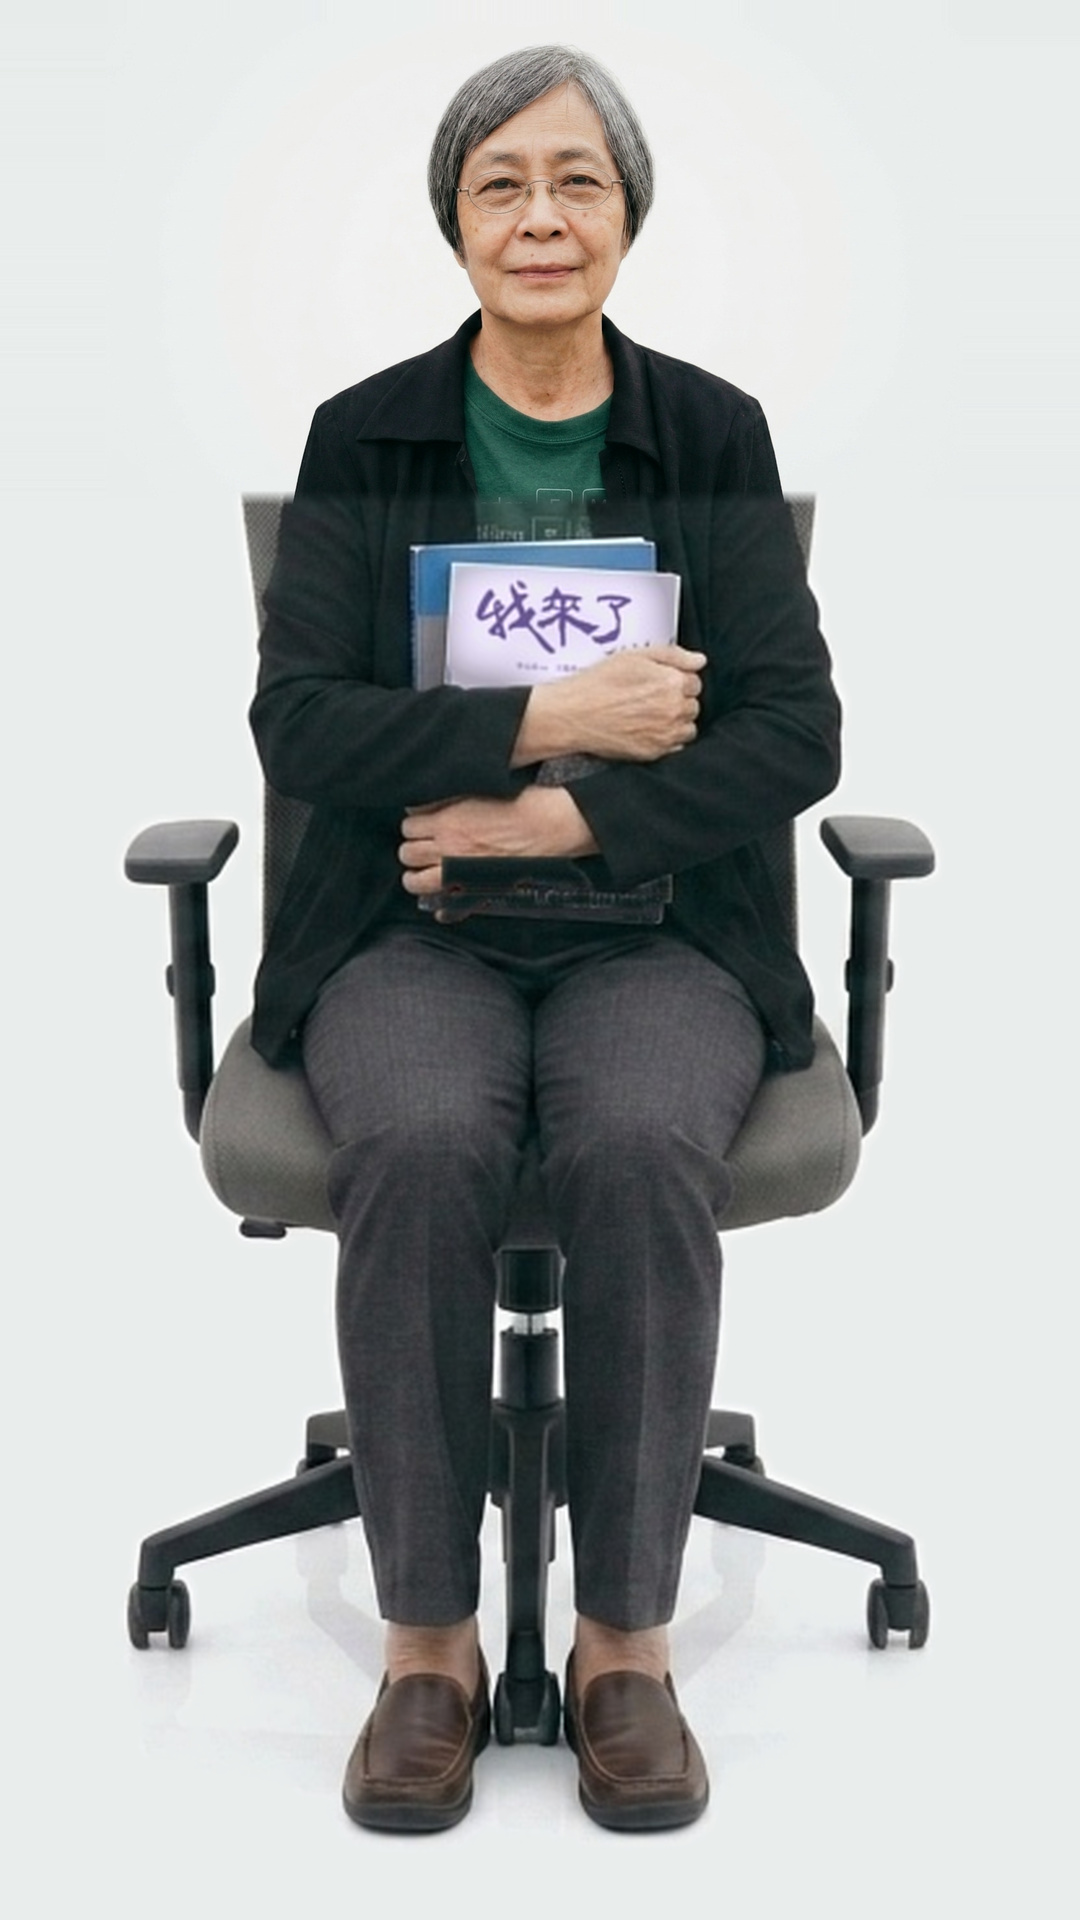
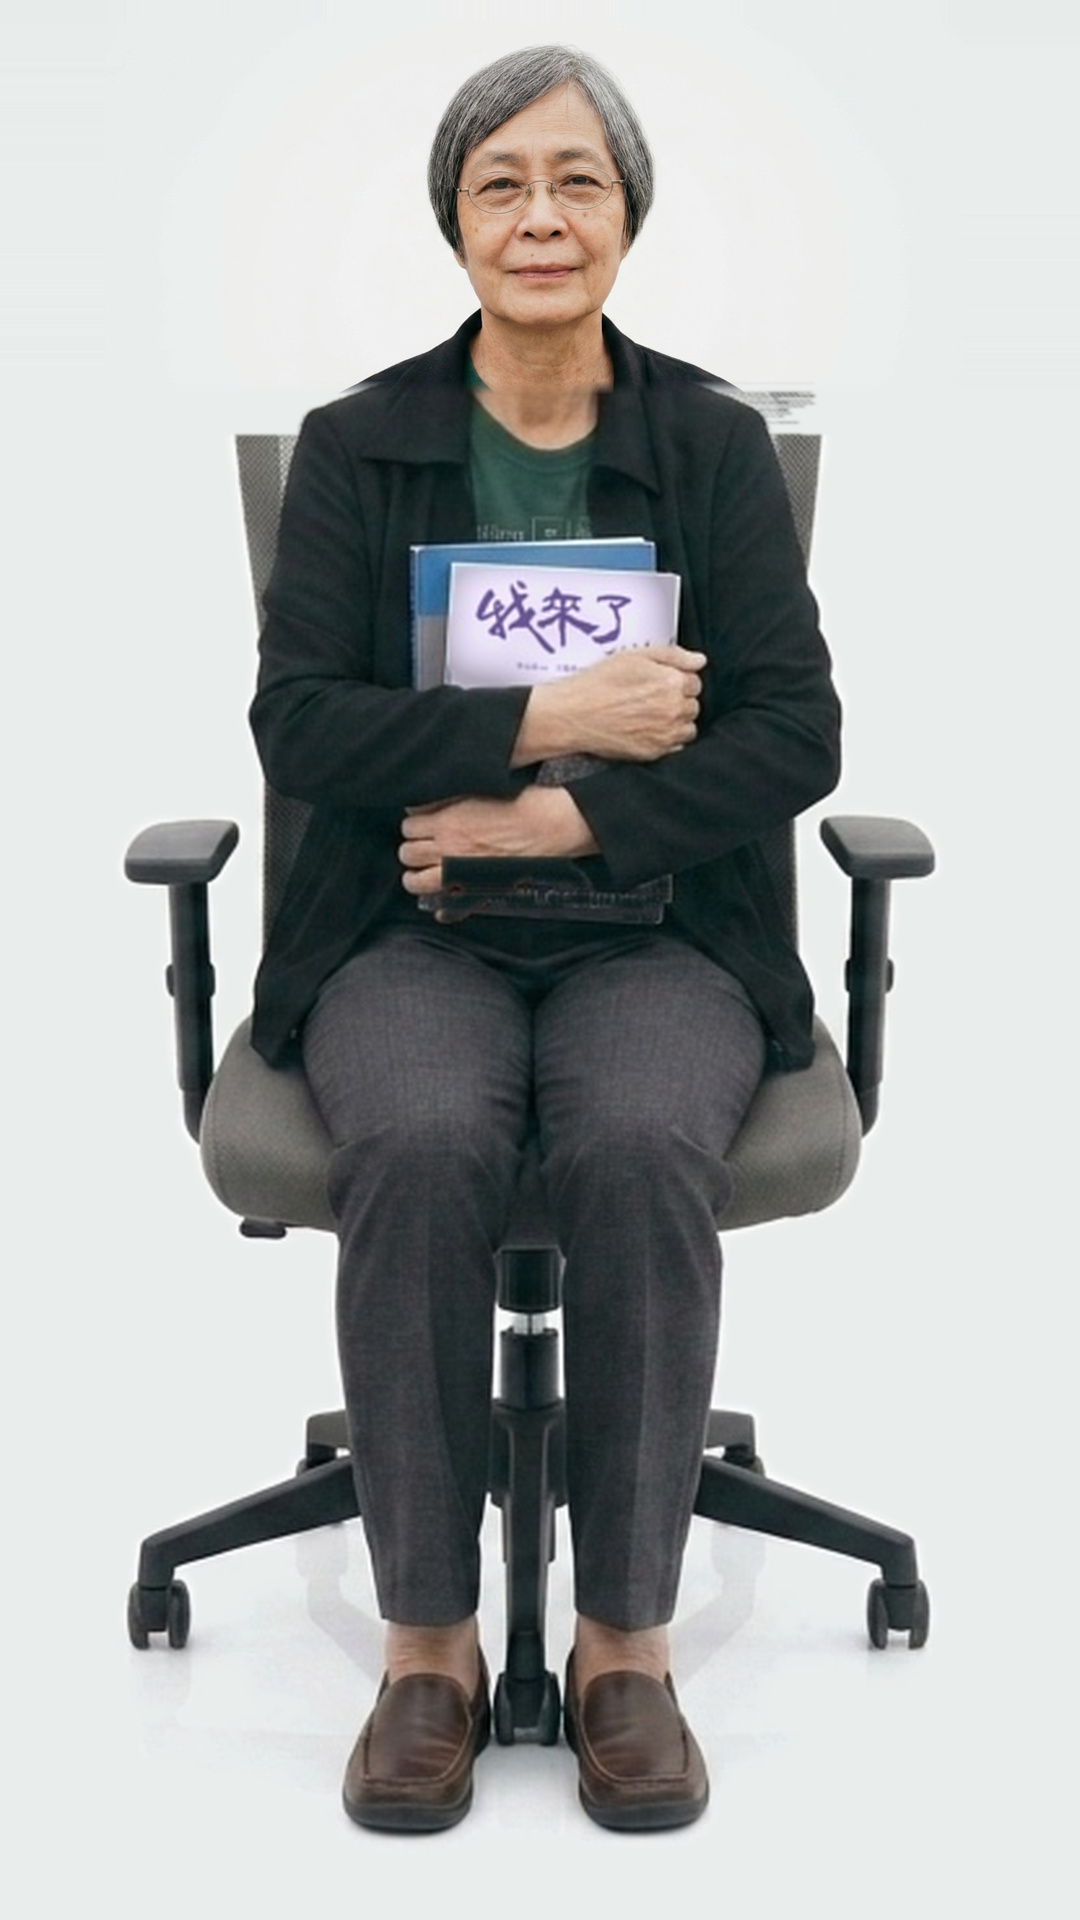
fix(live): 接縫從胸口移到脖子，修掉「肩膀怪怪的」
上一版把接縫放在胸口（底圖 y=441~490）。正式站上的症狀是肩膀一帶
糊成一條乳白色霧帶，實測從 y=475 一路糊到 y=540，比羽化本身寬得多。

量出來是三件事疊在一起，而且都不是調羽化能修的：

1. 姿勢不同。真實照片是端正的正面胸上照，肩線高而方；坐姿那張抱著書、
   肩膀往內收。底圖 y=360 那一列，照片的外套寬 273px、坐姿只有 195px，
   要到 y=410 才追上（445 vs 441）。接在中間任何一列都有 30~40px 階梯。
2. 衣領高度不同。照片的領子 y=320 就出現，坐姿要到 y=340。
3. 胸口的內容根本不同。照片是敞開外套＋綠 T 恤，坐姿是雙臂交疊抱書，
   沒有任何一列是同樣的東西。

改成收在脖子（遮罩 65%→74%，底圖 y=334~378，照片層實心到 380）。
脖子是唯一兩層內容一致的地方——都是皮膚，色差也小
（照片 166,136,109 vs 坐姿 164,124,97）。收在這裡之後肩膀、衣領、
綠 T 恤、手臂、書、椅子全部來自同一張坐姿圖，姿勢自然一致。

⚠ 照片層不能往下延伸過 395：照片的綠 T 恤在中央約 y=415 開始，
一進混合區脖子上會出現一塊綠灰色（試過）。

順帶：椅背上緣改清到 y=435（原圖椅背頂到 327），清除只做在她輪廓外側，
否則會把領口裡的綠 T 恤一起挖掉。

代價是即時影像只剩頭跟脖子。但講話時會動的本來就只有那裡，
肩膀以下在任何版本裡都是靜態的。

Changed region(s): [[0.2139, 0.1875, 0.6417, 0.2812], [0.6417, 0.1875, 0.7639, 0.2812]]

diff --git a/components/avatar/full-body-stage.tsx b/components/avatar/full-body-stage.tsx
@@ -9,9 +9,8 @@ import type { ReactNode } from "react";
  * 上傳給 HeyGen 的是頭肩照，畫面上合成出全身。
  *
  * 🔴 代價，改動前先讀完：
- * 1. **胸口以下不會動。** 只有串流覆蓋的那一段是即時影像，再往下是靜態照片。
- *    坐姿比站姿的可動範圍更小——她抱著書，手臂就在下巴底下不遠處，
- *    接縫只能塞在衣領到書本之間那一段。這是姿勢決定的，不是參數問題。
+ * 1. **脖子以下不會動。** 只有串流覆蓋的那一段是即時影像，再往下是靜態照片。
+ *    接縫為什麼只能收在脖子，見下面 STAGE_MASK 的註解——放肩膀或胸口都會露餡。
  * 2. **底圖 avatar-fullbody.jpg 的胸口以下全部是 AI 生成的。** 影片框底邊
  *    （底圖 y=504，大約在胸口）以上是真實攝影，以下的手臂、椅子、長褲、鞋子
  *    都是模型畫出來的。她本人還在世，這件事主辦單位必須知情——浮水印
@@ -63,7 +62,10 @@ export const FULL_BODY_SRC = "/avatar-fullbody.jpg";
  * 🔴 **椅背不能高過接縫。** 串流自己帶著一整片不透明的背景，覆蓋到哪裡就把
  * 底圖那裡蓋掉——椅背只要伸進影片框，上半截就會被抹掉，變成椅子從她胸口
  * 才長出來。這一版是把照片層鋪滿整個影片框寬度，順手把原圖那截高椅背
- * 一起蓋掉，看起來像張中背椅；換成更高的椅背或加了背景物件就會破功。
+ * 一起蓋掉。原圖那張椅背頂到 y=327，所以底圖已經先把 y=435 以上、她輪廓以外的
+ * 椅子清成背景，讓椅背上緣落在接縫下面、看起來像張中背椅。清除是逐列取黑外套的
+ * 左右緣當輪廓、只清外側——不然會把領口裡的綠 T 恤一起挖掉。
+ * 換成更高的椅背或背後加了東西就會破功。
  */
 export const STAGE_BOX = {
   left: "9.44%",
@@ -73,30 +75,42 @@ export const STAGE_BOX = {
 } as const;
 
 /**
- * 下緣羽化：影片高度的 88% 開始淡出、97% 完全消失
- * （換算回底圖 ＝ y=558 開始、y=606 淡完）。
+ * 下緣羽化：影片高度的 65% 開始淡出、74% 完全消失
+ * （換算回底圖 ＝ y=334 開始、y=378 淡完）。
  *
  * 🔴 這一段跟底圖 avatar-fullbody.jpg 是**一組的**，不能只改一邊。
  * 底圖的組成是：真實照片層（avatar-poster-stage.jpg 縮成 860×484 貼在
- * (104,20)，底邊落在 y=505 ＝ 影片框底邊）實心到 y=490，490→505 羽化，
- * 之後才是 AI 生成的坐姿。所以影片必須在 y=490 之前淡完——
- * 淡出的那一段底下是同一張照片，接縫才藏得住。
+ * (104,20)）實心到 y=380、380→395 羽化，之後全部是 AI 生成的坐姿。
+ * 所以影片必須在 y=380 之前淡完——淡出的那一段底下是同一張照片。
  *
- * 🔴 淡出區的下限是**書本的上緣（底圖 y=535）**。她抱著書，手臂橫在胸前，
- * 而真實照片那張是雙手自然下垂、胸口只有綠 T 恤跟敞開的外套——兩者在書本
- * 那一帶完全對不起來。接縫必須落在衣領與書本之間那 200px 左右的窗口裡。
+ * 🔴 接縫刻意收在**脖子**上，不在肩膀也不在胸口。上一版放在胸口
+ * （y=441~490），正式站上看起來就是「肩膀怪怪的」，三個原因疊在一起：
+ *
+ * 1. **姿勢不一樣。** 真實照片是端正的正面胸上照，肩線高而方；坐姿那張抱著書、
+ *    肩膀往內收。實測底圖 y=360 那一列，照片的外套寬 273px、坐姿只有 195px，
+ *    要到 y=410 才追上（445 vs 441）。接在中間任何一列都會有 30~40px 的階梯。
+ * 2. **衣領高度不一樣。** 照片的領子 y=320 就出現，坐姿要到 y=340。
+ * 3. **胸口的內容根本不同。** 照片是敞開外套＋綠 T 恤，坐姿是雙臂交疊抱著書，
+ *    沒有任何一列是同樣的東西。混出來就是一條乳白色霧帶——實測從 y=475
+ *    一路糊到 y=540，比羽化本身寬得多。
+ *
+ * 脖子是唯一兩層內容一致的地方：都是皮膚，色差也小
+ * （照片 166,136,109 vs 坐姿 164,124,97）。收在這裡之後，肩膀、衣領、綠 T 恤、
+ * 手臂、書、椅子全部來自同一張坐姿圖，姿勢自然一致。
+ *
+ * ⚠ 照片層**不要**往下延伸過 395：照片的綠 T 恤在中央約 y=415 就開始，
+ * 一進混合區脖子上會出現一塊綠灰色（實測過）。
+ * ⚠ 起點也有上限：下巴在 y=306。再往上就會淡到下巴，看起來像頭浮著。
  *
  * ⚠ 照片層的左、右、上三邊是用 `-virtual-pixel Edge` 往外延伸鋪滿整個
- * 1080 寬、一路到 y=0，**不是**直接貼一塊 922×519。三邊留硬邊的版本實測
- * 會在畫面上浮出一個長方形：兩張照片的暈影不一樣，邊界上差幾個色階就看得到。
- * 延伸之後整張圖 y=300 那一列從 x=40 到 x=1030 都是 rgb(233,237,236)，
- * 跟串流一致，只剩下緣一條接縫要處理。
+ * 1080 寬、一路到 y=0，**不是**直接貼一塊。三邊留硬邊的版本實測會在畫面上
+ * 浮出一個長方形：兩張圖的暈影不一樣，邊界差幾個色階就看得到。
  *
- * ⚠ 起點也有上限：下巴在影片框的 59.2%。再往上就會淡到下巴，
- * 看起來像頭浮在半空中。
+ * ⚠ 代價：即時影像只剩頭跟脖子。但講話時會動的本來就只有那裡，
+ * 肩膀以下在任何版本裡都是靜態的，所以實際上沒有損失。
  */
 export const STAGE_MASK =
-  "linear-gradient(to bottom, #000 0%, #000 87%, transparent 97%)";
+  "linear-gradient(to bottom, #000 0%, #000 65%, transparent 74%)";
 
 /**
  * 背景色：串流實測是 rgb(233,237,236)。
